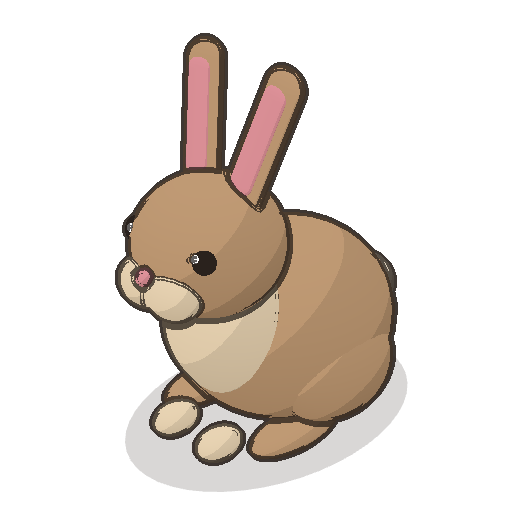
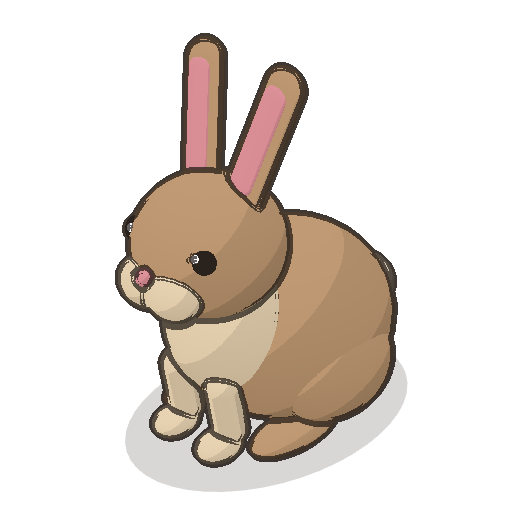
3D rabbit: add front legs so the paws join the body
Claude-Session: https://claude.ai/code/session_01FM3xUoBQeqATwJSQGwLWGi

Changed region(s): [[0.2812, 0.6562, 0.5, 0.9375]]

diff --git a/tools/sprite-library/render3d/rabbit.ts b/tools/sprite-library/render3d/rabbit.ts
@@ -16,8 +16,11 @@ export function rabbit(): THREE.Group {
   // Feet and front paws.
   g.add(blob(COAT, 0.1, [0.24, 0.06, 0.06], [1, 0.6, 2.2]));
   g.add(blob(COAT, 0.1, [-0.24, 0.06, 0.06], [1, 0.6, 2.2]));
-  g.add(blob(CREAM, 0.075, [0.12, 0.08, 0.34], [1, 0.85, 1.4]));
-  g.add(blob(CREAM, 0.075, [-0.12, 0.08, 0.34], [1, 0.85, 1.4]));
+  // Front legs: short and sturdy, rising out of the chest so the paws are joined to the body.
+  for (const side of [1, -1]) {
+    g.add(capsule(CREAM, 0.07, 0.2, [side * 0.12, 0.22, 0.3], [1, 1, 1], [0.18, 0, 0]));
+    g.add(blob(CREAM, 0.08, [side * 0.12, 0.07, 0.34], [1, 0.75, 1.3]));
+  }
   // Tail.
   g.add(blob('#f8f2e8', 0.13, [0, 0.36, -0.58]));
   // Head.
